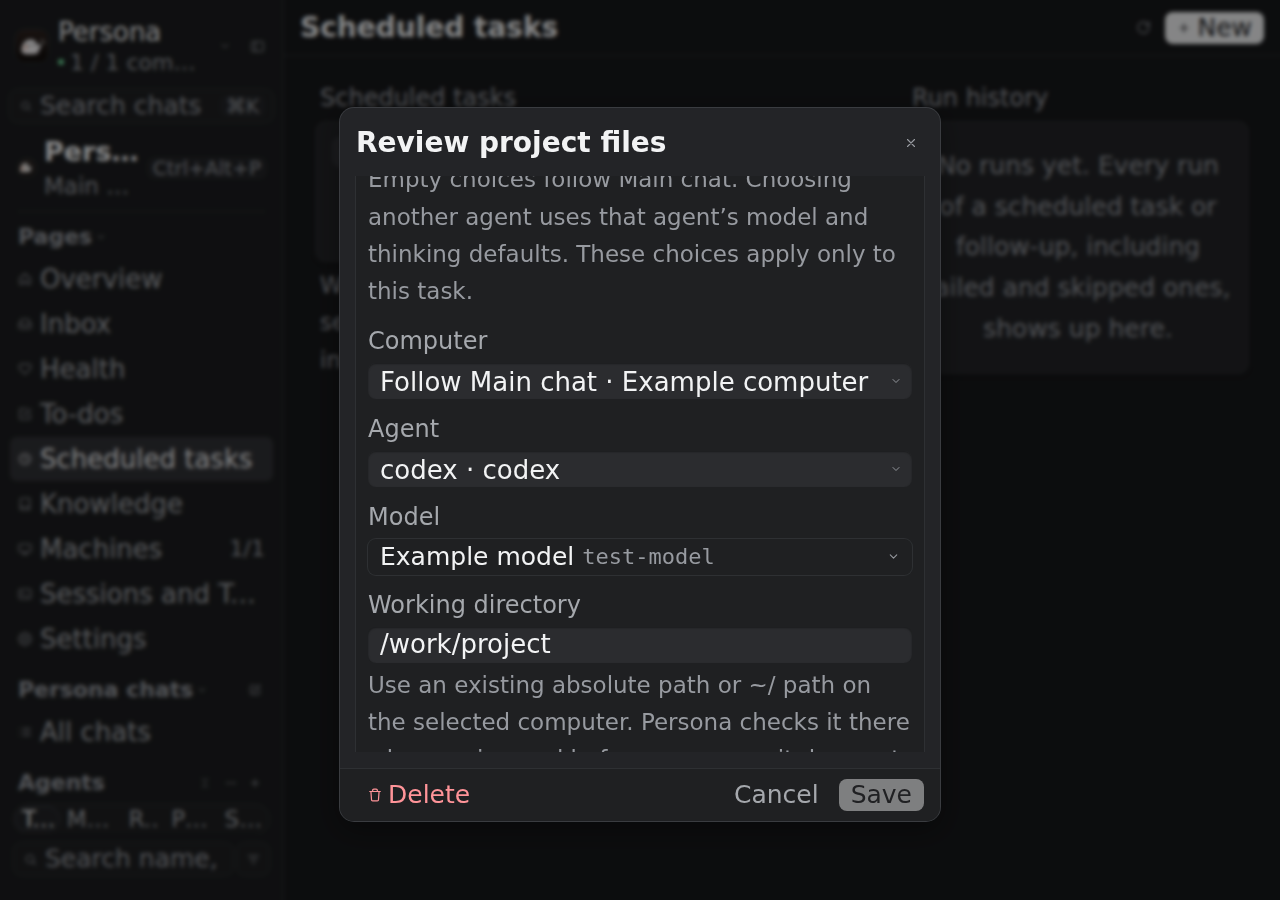
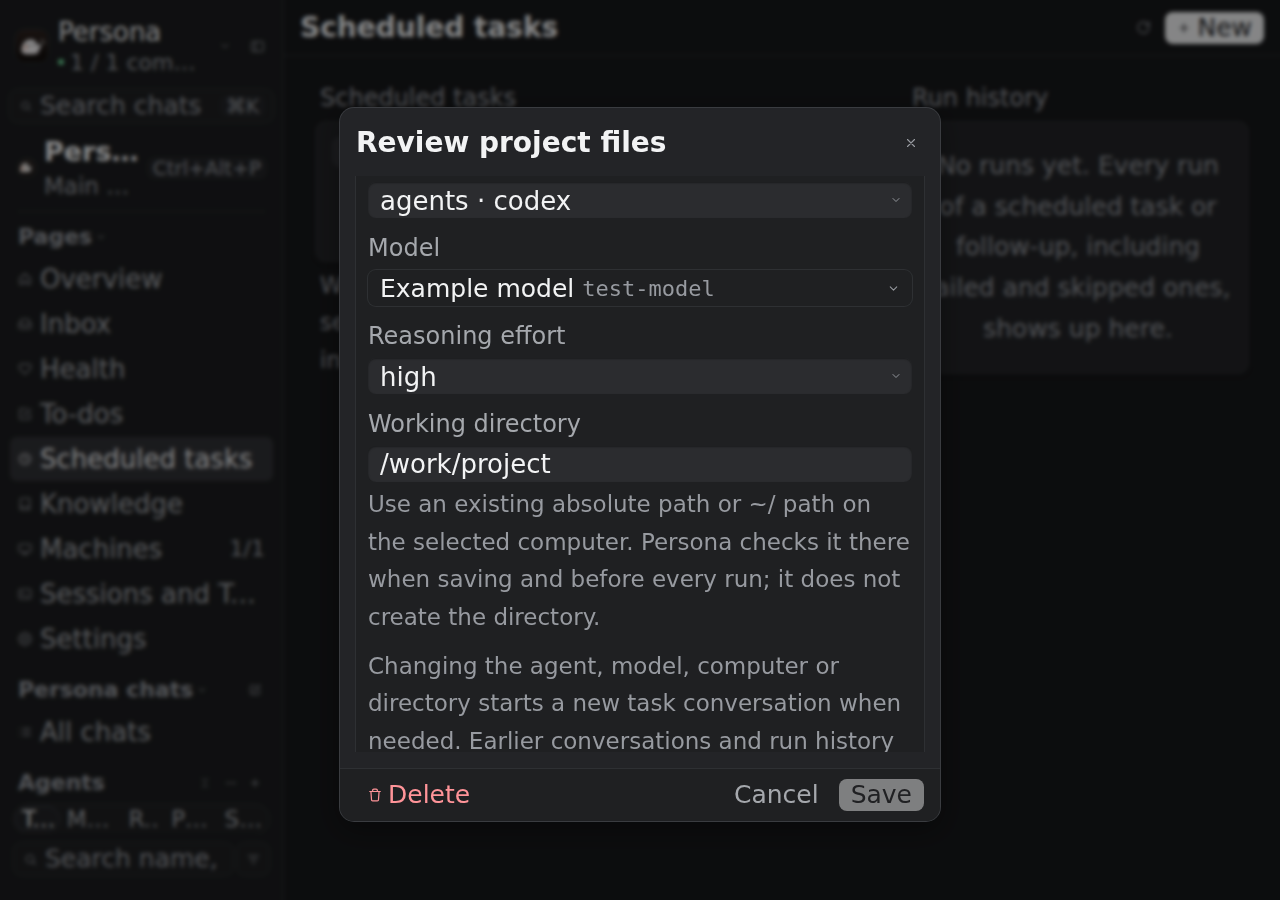
Clarify task execution defaults and preview above prompt

Changed region(s): [[0.2812, 0.4667, 0.7188, 0.84], [0.2812, 0.1867, 0.6875, 0.4356]]

diff --git a/web/src/views/assistant/TaskExecutionFields.tsx b/web/src/views/assistant/TaskExecutionFields.tsx
@@ -2,7 +2,7 @@
 import { useEffect, useRef, useState } from "react";
 import { errorText } from "../../lib/api";
 import { modelPurpose, type ModelPurpose } from "../../lib/model-config";
-import { effortChoices, machineLaunchers, providerModels, takesEffort, type MachineLaunchers } from "../../lib/launcher-models";
+import { defaultModel, effortChoices, machineLaunchers, providerModels, takesEffort, type MachineLaunchers } from "../../lib/launcher-models";
 import { launcherTitle } from "../../lib/provider-names";
 import { shownManager } from "../../lib/manager-choice";
 import type { Task } from "../../lib/routines";
@@ -24,25 +24,26 @@ export function TaskExecutionFields({ draft, disabled, onChange }: { draft: Task
   const [query, setQuery] = useState("");
   const search = useRef<HTMLInputElement>(null);
   useEffect(() => {
-    if (!expanded) return;
     let live = true;
     modelPurpose("assistant").then((r) => { if (live) { setMain(r.purpose); setProblem(""); } }, (e) => { if (live) setProblem(errorText(e)); });
     return () => { live = false; };
-  }, [expanded, reload]);
+  }, [reload]);
   const machine = draft.execution_machine_id || main?.machine_id || draft.execution?.machine_id || "";
   const inheritedLauncher = main?.effective?.provider?.replace(/^launcher\./, "") || draft.execution?.launcher || "";
   const launcher = draft.launcher || inheritedLauncher;
-  const inherited = !draft.launcher || draft.launcher === inheritedLauncher ? main?.effective ?? {} : {};
+  const inheritsAssistant = !draft.launcher || draft.launcher === inheritedLauncher;
+  const inherited = inheritsAssistant ? main?.effective ?? {} : {};
   useEffect(() => {
     setLaunchers(undefined);
-    if (!expanded || !machine) return;
+    if (!machine) return;
     const controller = new AbortController();
     machineLaunchers(machine, { purpose: "assistant", signal: controller.signal }).then((r) => { setLaunchers(r); setProblem(""); }, (e) => { if (!controller.signal.aborted) setProblem(errorText(e)); });
     return () => controller.abort();
-  }, [expanded, machine, reload]);
+  }, [machine, reload]);
   useEffect(() => {
     setOpen(false); setQuery("");
-    if (!expanded || !machine || !launcher) { setModels({ status: "idle" }); return; }
+    if (!expanded) return;
+    if (!machine || !launcher) { setModels({ status: "idle" }); return; }
     const controller = new AbortController();
     setModels({ status: "loading" });
     providerModels(`launcher.${launcher}`, { machine, signal: controller.signal, refresh: reload > 0 })
@@ -51,15 +52,24 @@ export function TaskExecutionFields({ draft, disabled, onChange }: { draft: Task
     return () => controller.abort();
   }, [expanded, machine, launcher, reload]);
   const list = models.list;
-  const efforts = list && takesEffort(list.agent) ? effortChoices(list, draft.model || "", inherited) : [];
+  const model = draft.model || inherited.model;
+  const selectedModel = list?.models.find((m) => m.id === model) ?? (!model ? defaultModel(list?.models ?? []) : undefined);
+  const efforts = list && (takesEffort(list.agent) || selectedModel?.efforts?.length) ? effortChoices(list, draft.model || "", inherited) : [];
   const known = launchers?.launchers ?? [];
-  const computerName = machines.find((m) => m.id === machine)?.name || machine;
-  const summary = [launcherTitle(launcher, known), draft.model || inherited.model || t("settings-modelconfiguration.provider_default"), computerName, draft.cwd || t("assistant-taskeditor.directory_default")].filter(Boolean).join(" · ");
+  const knownLauncher = known.find((l) => l.name === launcher);
+  const agent = knownLauncher?.agent_type || knownLauncher?.agent || list?.agent || (draft.execution?.launcher === launcher ? draft.execution.agent : "");
+  const title = launcherTitle(launcher, known);
+  const defaultLabel = t(inheritsAssistant ? "assistant-taskeditor.follow_assistant" : "assistant-taskeditor.follow_launcher");
+  const defaultEffort = inherited.effort || selectedModel?.default_effort;
+  const defaultModelID = selectedModel?.resolved || (selectedModel?.id !== "default" ? selectedModel?.id : "");
+  const summary = [title || t("assistant-taskeditor.follow_assistant"), agent !== title ? agent : "", model || defaultModelID || defaultLabel, draft.effort || defaultEffort || defaultLabel].filter(Boolean).join(" · ");
   const incompatibleOrigin = !!draft.session_id && !!(draft.launcher || draft.model || draft.effort || draft.cwd || draft.execution_machine_id);
   return <details onToggle={(e) => setExpanded(e.currentTarget.open)} className="rounded-card bg-inset p-3 shadow-hairline">
-    <summary className="cursor-pointer text-[13px] font-medium text-ink">{t("assistant-taskeditor.execution_options")}</summary>
+    <summary className="cursor-pointer text-[13px] font-medium text-ink">
+      <span>{t("assistant-taskeditor.execution_options")}</span>
+      <span className="mt-1 block break-words text-[12px] font-normal text-ink-2">{summary}</span>
+    </summary>
     <div className="mt-3 flex flex-col gap-3">
-      <p className="break-words text-[12px] leading-relaxed text-ink-2">{summary}</p>
       <p className="text-[11.5px] leading-relaxed text-ink-3">{t("assistant-taskeditor.execution_inheritance")}</p>
       <Field label={t("assistant-taskeditor.execution_computer")}>
         <select className={inputClass} value={draft.execution_machine_id ?? ""} disabled={disabled} onChange={(e) => onChange({ execution_machine_id: e.target.value })}>
@@ -77,19 +87,19 @@ export function TaskExecutionFields({ draft, disabled, onChange }: { draft: Task
       </Field>
       <div>
         <span className="mb-1 block text-[12px] font-medium text-ink-2">{t("settings-modelconfiguration.specific_model")}</span>
-        <fieldset className="min-w-0" disabled={disabled}><ModelPicker models={models} model={draft.model || ""} followed={inherited} open={open} onToggle={() => setOpen((v) => !v)} query={query} onQuery={setQuery} search={search}
+        <fieldset className="min-w-0" disabled={disabled}><ModelPicker models={models} model={draft.model || ""} followed={inherited} defaultLabel={defaultLabel} open={open} onToggle={() => setOpen((v) => !v)} query={query} onQuery={setQuery} search={search}
           onPick={(model) => { if (!disabled) { onChange({ model }); setOpen(false); } }} onReload={() => setReload((v) => v + 1)} custom failedNote={t("settings-modelconfiguration.list_failed")} /></fieldset>
         {models.status === "error" && <p role="alert" className="mt-1 break-words text-[12px] text-red">{models.error}</p>}
       </div>
-      {(efforts.length > 0 || draft.effort) && <Field label={t("settings-modelconfiguration.effort")}>
+      <Field label={t("settings-modelconfiguration.effort")}>
         <select className={inputClass} value={draft.effort ?? ""} disabled={disabled} onChange={(e) => onChange({ effort: e.target.value })}>
-          <option value="">{t("settings-modelconfiguration.follow_default")}</option>
+          <option value="">{[defaultLabel, defaultEffort].filter(Boolean).join(" · ")}</option>
           {draft.effort && !efforts.includes(draft.effort) && <option value={draft.effort}>{draft.effort}</option>}
           {efforts.map((effort) => <option key={effort} value={effort}>{effort}</option>)}
         </select>
-      </Field>}
+      </Field>
       <Field label={t("assistant-taskeditor.execution_directory")} note={t("assistant-taskeditor.directory_hint")}>
-        <input className={inputClass} value={draft.cwd ?? ""} disabled={disabled} placeholder={t("assistant-taskeditor.directory_default")} spellCheck={false} autoComplete="off" onChange={(e) => onChange({ cwd: e.target.value })} />
+        <input className={inputClass} value={draft.cwd ?? ""} disabled={disabled} placeholder={t("assistant-taskeditor.directory_follow")} spellCheck={false} autoComplete="off" onChange={(e) => onChange({ cwd: e.target.value })} />
       </Field>
       <p className="text-[11.5px] leading-relaxed text-ink-3">{t("assistant-taskeditor.execution_sessions")}</p>
       {incompatibleOrigin && <p role="alert" className="text-[12px] text-red">{t("assistant-taskeditor.execution_own_chat")}</p>}

diff --git a/web/src/views/assistant/TaskEditor.execution.test.tsx b/web/src/views/assistant/TaskEditor.execution.test.tsx
@@ -33,9 +33,9 @@ beforeEach(()=>{
  vi.stubGlobal('fetch',vi.fn(async(input:RequestInfo|URL,init?:RequestInit)=>{
   const path=String(input);
   const reply=(body:unknown,status=200)=>new Response(JSON.stringify(body),{status});
-  if(path.includes('/model-config/purposes/assistant'))return reply({purpose:{id:'assistant',machine_id:'box',effective:{provider:'launcher.claude',model:'main-model'},override:{}},providers:[]});
-  if(path.includes('/models'))return reply({agent:'codex',models:[{id:'test-model',name:'Test model',efforts:['low','high']}]});
-  if(path.includes('/launchers'))return reply({launchers:[{name:'claude',agent:'claude'},{name:'codex',agent:'codex'}]});
+  if(path.includes('/model-config/purposes/assistant'))return reply({purpose:{id:'assistant',machine_id:'box',effective:{provider:'launcher.claude',model:'main-model',effort:'high'},override:{}},providers:[]});
+  if(path.includes('/models'))return reply({agent:path.includes('codex')?'codex':'claude',models:[{id:'agent-default',name:'Agent default',default:true,efforts:['low','high'],default_effort:'high'},{id:'test-model',name:'Test model',efforts:['low','high']}]});
+  if(path.includes('/launchers'))return reply({launchers:[{name:'claude',display_name:'Assistant',agent:'claude'},{name:'codex',display_name:'agents',agent:'codex'}]});
   if(path.includes('/runs'))return reply({runs:[]});
   if(path.includes('/assistant/tasks')){
    const body=JSON.parse(String(init?.body));writes.push(body);
@@ -47,18 +47,41 @@ beforeEach(()=>{
  host=document.createElement('div');document.body.append(host);root=createRoot(host);
 });
 afterEach(async()=>{await act(async()=>root.unmount());host.remove();vi.unstubAllGlobals();});
-const render=async(task=saved,key='initial')=>{await act(async()=>root.render(<TaskEditor key={key} task={task} onSaved={onSaved} onClose={onClose} onDeleted={()=>{}}/>));await flush();await act(async()=>{document.querySelector<HTMLDetailsElement>("details")!.open=true;document.querySelector("details")!.dispatchEvent(new Event("toggle"));});await flush();};
+const expand=async(open=true)=>{await act(async()=>{document.querySelector<HTMLDetailsElement>('details')!.open=open;document.querySelector('details')!.dispatchEvent(new Event('toggle'));});await flush();};
+const render=async(task=saved,key='initial',expanded=true)=>{await act(async()=>root.render(<TaskEditor key={key} task={task} onSaved={onSaved} onClose={onClose} onDeleted={()=>{}}/>));await flush();if(expanded)await expand();};
+
+it('previews inherited execution above the prompt while collapsed and keeps defaults inherited on save',async()=>{
+ await render(saved,'defaults',false);
+ const details=document.querySelector<HTMLDetailsElement>('details')!;
+ expect(details.open).toBe(false);
+ expect(details.querySelector('summary')!.textContent).toContain('Assistant · claude · main-model · high');
+ expect(details.compareDocumentPosition(document.querySelector('textarea')!) & Node.DOCUMENT_POSITION_FOLLOWING).toBeTruthy();
+ await expand();
+ for(const label of ['execution_computer','execution_agent','execution_directory']) expect(field(t(`assistant-taskeditor.${label}`)).value).toBe('');
+ expect(field(t('settings-modelconfiguration.effort')).value).toBe('');
+ expect(details.textContent).toContain(t('assistant-taskeditor.follow_assistant'));
+ await change(field(t('assistant-taskeditor.title_label')),'Another title');
+ await click(t('common.save'));
+ for(const key of ['launcher','model','effort','cwd','execution_machine_id']) expect(writes[0]).not.toHaveProperty(key);
+});
 
 it('saves an agent, a model and a directory without changing Main chat; reopens the saved choices',async()=>{
  await render();
  await change(field(t('assistant-taskeditor.execution_agent')),'codex');
+ await expand(false);
+ expect(document.querySelector('summary')!.textContent).toContain('agents · codex · agent-default · high');
+ await expand();
  const modelButton=[...document.querySelectorAll('button')].find((b)=>b.getAttribute('aria-expanded')==='false'&&b.querySelector('span'))!;
  await act(async()=>modelButton.click());await flush();
  const modelChoice=[...document.querySelectorAll('button')].find((b)=>b.textContent?.includes('Test model'))!;
  expect(modelChoice).toBeTruthy();await act(async()=>modelChoice.click());await flush();
+ await change(field(t('settings-modelconfiguration.effort')),'high');
+ await expand(false);
+ expect(document.querySelector('summary')!.textContent).toContain('agents · codex · test-model · high');
+ await expand();
  await change(field(t('assistant-taskeditor.execution_directory')),'/work/project');
  await click(t('common.save'));
- expect(writes).toEqual([expect.objectContaining({launcher:'codex',model:'test-model',cwd:'/work/project',model_revision:0})]);
+ expect(writes).toEqual([expect.objectContaining({launcher:'codex',model:'test-model',effort:'high',cwd:'/work/project',model_revision:0})]);
  expect(onSaved).toHaveBeenCalledOnce();expect(onClose).toHaveBeenCalledOnce();
  await render(saved,'reopen');
  expect(field(t('assistant-taskeditor.execution_agent')).value).toBe('codex');

diff --git a/web/src/ui/ModelPicker.tsx b/web/src/ui/ModelPicker.tsx
@@ -17,12 +17,14 @@ export interface ModelList {
   error?: string;
 }
 
-export function ModelPicker({ models, model, followed = {}, ownModel, open, onToggle, query, onQuery, search, onPick, onReload, custom, typing, onForget, failedNote }: {
+export function ModelPicker({ models, model, followed = {}, defaultLabel, ownModel, open, onToggle, query, onQuery, search, onPick, onReload, custom, typing, onForget, failedNote }: {
   models: ModelList;
   /** The pick's id; "": "Default". */
   model: string;
   /** "Models"' binding when it is what runs with no pick ("New agent" following it). */
   followed?: ModelBinding;
+  /** Names the source of the default when a caller inherits another configuration. */
+  defaultLabel?: string;
   /** What the launcher passes as its own --model (shown when it is locked). */
   ownModel?: string;
   open: boolean;
@@ -82,7 +84,7 @@ export function ModelPicker({ models, model, followed = {}, ownModel, open, onTo
         title={picked?.description ?? (picked || unlisted ? undefined : defaultModel(all)?.description)}
         className="flex h-9 w-full items-center gap-2 rounded-control bg-inset px-3 text-left shadow-hairline outline-none transition-colors enabled:hover:bg-hover focus-visible:shadow-[0_0_0_1px_var(--line-strong)] disabled:cursor-not-allowed"
       >
-        <span className={cx("max-w-[60%] shrink-0 truncate text-[12.5px]", locked ? "text-ink-3" : "text-ink", unlisted && "font-mono")}>{picked ? modelName(picked) : unlisted ? modelName({ id: unlisted }) : t("ui-modelpicker.default")}</span>
+        <span className={cx("max-w-[60%] shrink-0 truncate text-[12.5px]", locked ? "text-ink-3" : "text-ink", unlisted && "font-mono")}>{picked ? modelName(picked) : unlisted ? modelName({ id: unlisted }) : defaultLabel || t("ui-modelpicker.default")}</span>
         {loading && !all.length ? (
           <span className="flex min-w-0 flex-1 items-center gap-1.5 text-[11.5px] text-ink-3"><Spinner size={10} /><span className="truncate">{t("ui-modelpicker.loading")}</span></span>
         ) : models.status === "error" && !unlisted && !typing ? (
@@ -129,7 +131,7 @@ export function ModelPicker({ models, model, followed = {}, ownModel, open, onTo
             <IconButton icon="retry" label={t("ui-modelpicker.reload")} size={24} iconSize={12} disabled={loading} onClick={onReload} />
           </div>
           <div role="listbox" aria-label={t("ui-modelpicker.list_label")} className="max-h-[min(50vh,360px)] overflow-y-auto p-1">
-            {showDefault && <ModelRow name={t("ui-modelpicker.default")} detail={defaultDetail(all, followed)} note={defaultModel(all)?.description} selected={!picked && !unlisted} onPick={() => onPick("")} />}
+            {showDefault && <ModelRow name={defaultLabel || t("ui-modelpicker.default")} detail={defaultDetail(all, followed)} note={defaultModel(all)?.description} selected={!picked && !unlisted} onPick={() => onPick("")} />}
             {unlisted && !query.trim() && <ModelRow name={modelName({ id: unlisted })} note={typing ? t("ui-modelpicker.typed") : t("ui-modelpicker.current_unlisted")} selected onPick={() => onPick(unlisted)} mono />}
             {own.map((m) => (
               <ModelRow key={m.id} name={modelName(m)} detail={modelDetail(m)} note={m.description} selected={m.id === model} onPick={() => onPick(m.id)} />

diff --git a/web/src/views/assistant/TaskEditor.tsx b/web/src/views/assistant/TaskEditor.tsx
@@ -246,6 +246,8 @@ export function TaskEditor({
             )}
           </section>
 
+          {hasExecution && <Suspense fallback={<Spinner />}><TaskExecutionFields draft={draft} disabled={working} onChange={set} /></Suspense>}
+
           <section>
             <SectionTitle>{t("assistant-taskeditor.section_prompt")}</SectionTitle>
             <textarea
@@ -315,7 +317,6 @@ export function TaskEditor({
                 {draft.session_id ? t("assistant-taskeditor.permission_hint_resume") : ""}
               </p>
             )}
-            {hasExecution && <div className="mt-3"><Suspense fallback={<Spinner />}><TaskExecutionFields draft={draft} disabled={working} onChange={set} /></Suspense></div>}
           </section>
 
           {hasPush && (

diff --git a/docs/design/DESIGN_SYSTEM.md b/docs/design/DESIGN_SYSTEM.md
@@ -2271,9 +2271,13 @@ as finished without verifying a star, and opens GitHub outside the app.
 ## Scheduled task execution options
 
 The web task editor serves people scheduling specialist work as an optional **Execution options** group, closed by
-default. It reuses `Field`, native selects, `ModelPicker`, semantic surface/text tokens and the existing dialog.
-Main chat inheritance and the selected computer are shown inside the group; every choice can be cleared to inherit
-again. Launcher and model discovery use the selected computer's chat-compatible capabilities. A working directory
+default and placed before the prompt. Its disclosure always shows the effective launcher name, agent backend,
+model and thinking effort; repeated launcher/backend names are shown once. It reuses `Field`, native selects,
+`ModelPicker`, semantic surface/text tokens and the existing dialog. Every untouched control explicitly follows
+Assistant, with known inherited values shown. Selecting another launcher uses that agent's defaults for model and
+effort. Empty choices retain dynamic inheritance rather than pinning a copied value. The selected computer is shown
+inside the group. Launcher and model discovery use that computer's chat-compatible capabilities; the model catalog
+is only requested when the group opens. A working directory
 is an existing path on that computer, explained under the field. Switching execution context may start a new chat;
 the hint says earlier chats are retained. Failed saves retain the draft, and saving/running disables the controls.
 Run history has a separate disclosure for its execution configuration, outside the button opening the conversation.

diff --git a/docs/web/screenshots/task-execution/README.md b/docs/web/screenshots/task-execution/README.md
@@ -10,8 +10,10 @@ node web/e2e/task-execution.mjs http://127.0.0.1:5173 \
   --shots docs/web/screenshots/task-execution --chromium <chromium-executable>
 ```
 
-The fixture selects an agent and its advertised model, saves a working directory, reopens the task, and checks the
-saved values and model discovery. It captures light/dark at 1280 and 390 pixels, then doubles text size and checks
+The fixture checks Cron visibility, the inherited configuration summary before the prompt, and the explicit agent,
+model and thinking effort. It saves a working directory, reopens the task, and checks the saved values and model
+discovery. The standard screenshots show the collapsed execution summary. It captures light/dark at 1280 and 390
+pixels, then opens the group, doubles text size and checks
 that form controls stay inside the dialog. Screenshots have been visually inspected. The largest-text form scrolls;
 its footer remains available. Native selects and the shared model picker keep full values available even when their
 collapsed text is truncated at the largest size.

diff --git a/docs/assistant/assistant.md b/docs/assistant/assistant.md
@@ -838,8 +838,10 @@ yet it silently reran the old prompt 3 minutes later): deleted tasks don't retry
 
 ### Task execution context
 
-The web task editor's **Execution options** is an advanced group for people who need a task to use a particular
-assistant backend, model, computer or directory. Leaving it untouched follows Main chat. It reuses the chat's
+The web task editor's **Execution options**, before the prompt, is an advanced group for people who need a task to use
+a particular assistant backend, model, computer or directory. Its collapsed summary shows the launcher name, actual
+agent backend, model and thinking effort. Every untouched control explicitly follows Assistant, with known inherited
+values shown; the saved fields stay unset so future Assistant changes still apply. It reuses the chat's
 launcher list (`purpose=assistant`), model picker and capability-derived thinking choices; it never changes Main chat.
 Plain-text prompts work independently of rich input and content references.
 
